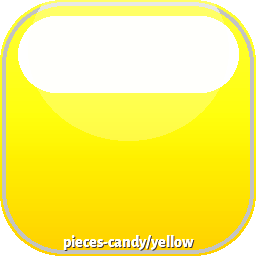
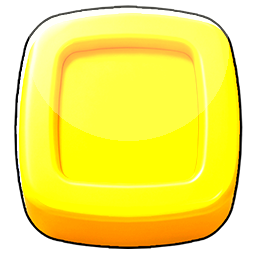
board-meta-uxi: art-refresh.sh (one command) + Bonus as a shelf under Play run
- sh art-refresh.sh: finds a python3 with Pillow, regenerates placeholders
  (ledger-protected), rewrites the manifests, syncs — the single command
  to run after dropping art
- the Bonus strip is now a shelf that comes out from UNDER the Play
  button (flat top tucked beneath the CTA, rounded bottom), not a pill
  laid on top of it
- picks up the CD's latest art (candy tile set, boosted pieces, die,
  consumable icons — 63 CD files protected)

diff --git a/src/styles.css b/src/styles.css
@@ -1250,3 +1250,11 @@ button.ghost { background: none; border: 1px solid var(--border-strong); color: 
                     font-size: 28px; color: #fff; min-width: 34px; justify-content: center; }
 .dice-count { display: none; }
 .dice-wrap .dice-badge { left: 74px; }
+
+/* ---- CD: Bonus as a SHELF sliding out from under the Play button (not on top of it) ---- */
+.cta-wrap { flex-direction: column; align-items: center; }
+.cta-wrap .bstart { position: relative; z-index: 2; }
+.bonus-strip { position: static; transform: none; margin-top: -10px; padding: 14px 14px 6px 12px; z-index: 1;
+               border-radius: 0 0 16px 16px; border: 1px solid var(--accent); border-top: none;
+               background: linear-gradient(180deg, rgba(60, 38, 110, .98), rgba(24, 16, 48, .96));
+               box-shadow: 0 6px 14px rgba(0, 0, 0, .45), inset 0 3px 6px rgba(0, 0, 0, .35); }
